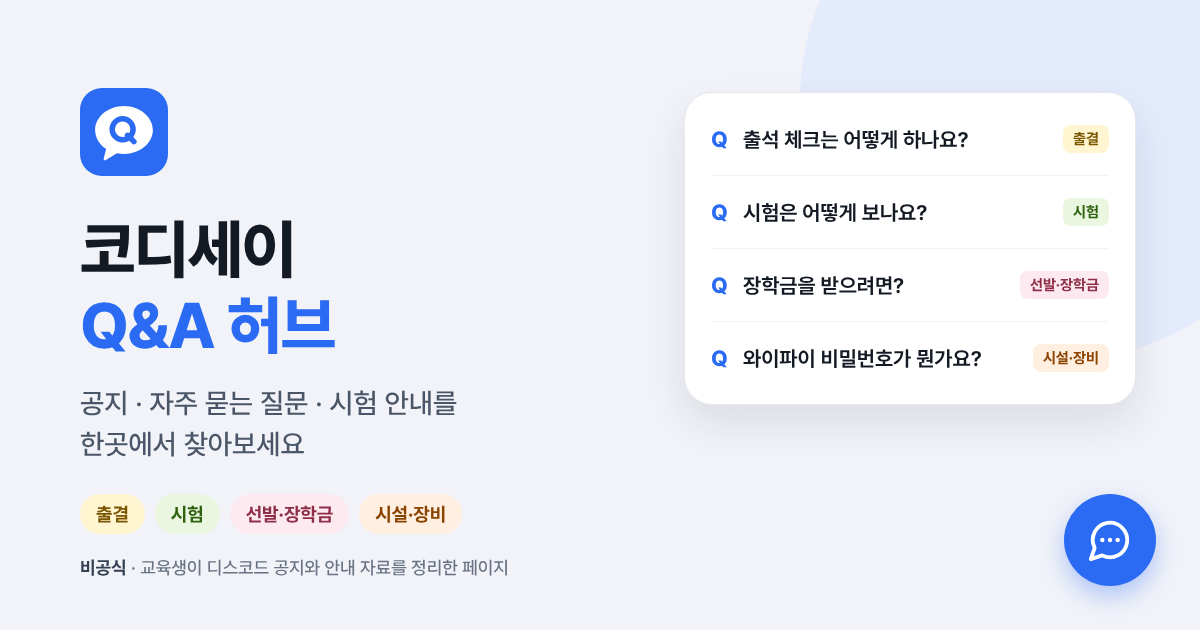
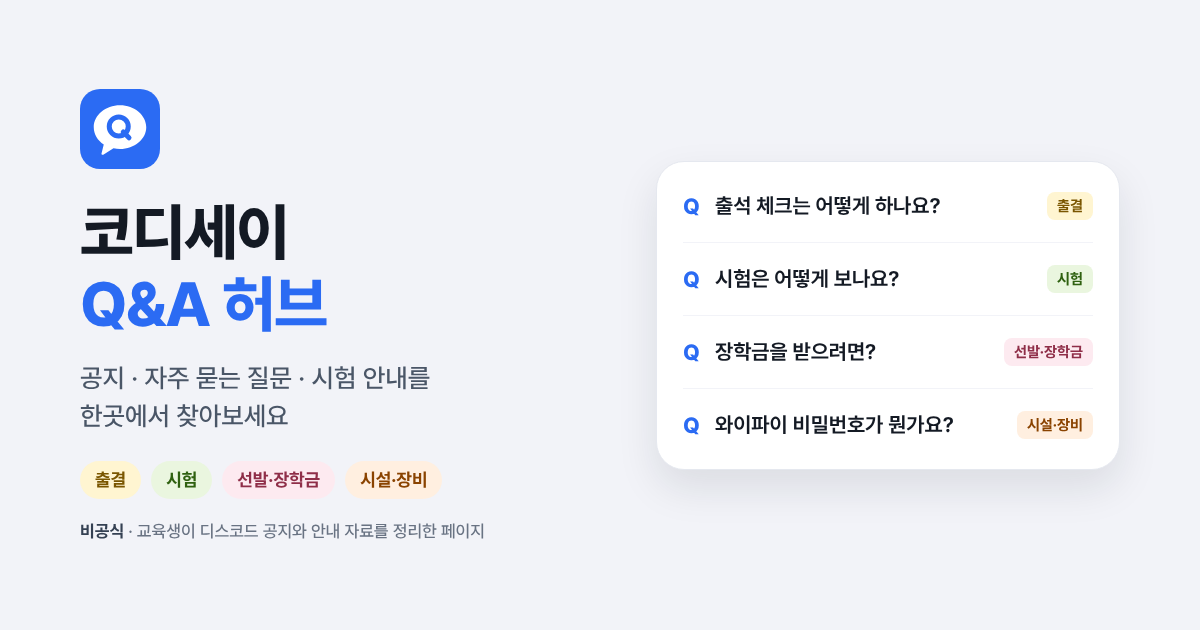
헤더 로고 줄 기준선 정렬, 미리보기 이미지 좌우·위아래 균형 맞춤
- 'Q&A 허브'와 구분선을 Codyssey 글자 기준선에 맞춤 (약 2.5px 떠 있던 것 수정)
- 미리보기 이미지: 좌우 여백 80px로 같게, 두 열을 세로 가운데 정렬, 겹치던 챗봇 버튼 제거

Claude-Session: https://claude.ai/code/session_013sPcTRdrTqiArEFcXF7Ao8

diff --git a/index.html b/index.html
@@ -16,13 +16,13 @@
   <meta property="og:url" content="https://sangukjeon.github.io/Codyssey_QnA/">
   <meta property="og:title" content="코디세이 Q&amp;A 허브 (비공식)">
   <meta property="og:description" content="공지, 자주 묻는 질문, 시험 안내를 한곳에서 찾아보세요. 교육생이 디스코드 공지와 안내 자료를 정리한 비공식 페이지입니다.">
-  <meta property="og:image" content="https://sangukjeon.github.io/Codyssey_QnA/assets/og-image.png?v=1">
+  <meta property="og:image" content="https://sangukjeon.github.io/Codyssey_QnA/assets/og-image.png?v=2">
   <meta property="og:image:width" content="1200">
   <meta property="og:image:height" content="630">
   <meta property="og:image:alt" content="코디세이 Q&amp;A 허브 — 공지, 자주 묻는 질문, 시험 안내를 한곳에서">
   <meta name="twitter:card" content="summary_large_image">
   <link rel="stylesheet" href="https://cdn.jsdelivr.net/gh/orioncactus/pretendard@v1.3.9/dist/web/variable/pretendardvariable.min.css">
-  <link rel="stylesheet" href="css/style.css?v=20261107-7">
+  <link rel="stylesheet" href="css/style.css?v=20261107-8">
 </head>
 <body>
   <a class="skip-link" href="#main">본문 바로가기</a>
@@ -95,8 +95,8 @@
     </form>
   </section>
 
-  <script src="js/data.js?v=20261107-7"></script>
-  <script src="js/app.js?v=20261107-7"></script>
+  <script src="js/data.js?v=20261107-8"></script>
+  <script src="js/app.js?v=20261107-8"></script>
   <script>
     // 설치(앱으로 추가) 지원용 서비스 워커 — 캐시는 하지 않는다
     if ("serviceWorker" in navigator) navigator.serviceWorker.register("sw.js").catch(() => {});

diff --git a/css/style.css b/css/style.css
@@ -592,3 +592,6 @@ main { padding-bottom: 16px; min-height: 0; }
 .notice-box b { color: var(--text-strong); font-weight: 700; }
 
 .detail-head .source { margin: 8px 0 0; font-size: 12px; line-height: 18px; color: var(--text-tertiary); }
+
+/* 로고 줄 정렬: 'Q&A 허브'와 구분선을 Codyssey 글자 기준선에 맞춤 (측정값 약 2px 아래로) */
+.brand-name, .brand-sep { position: relative; top: 2px; }
